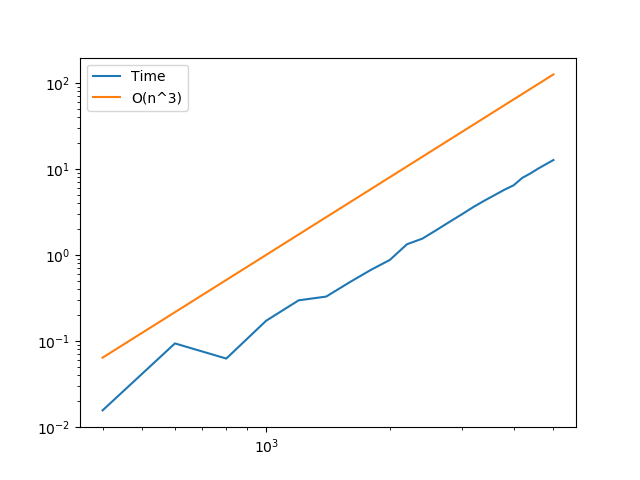
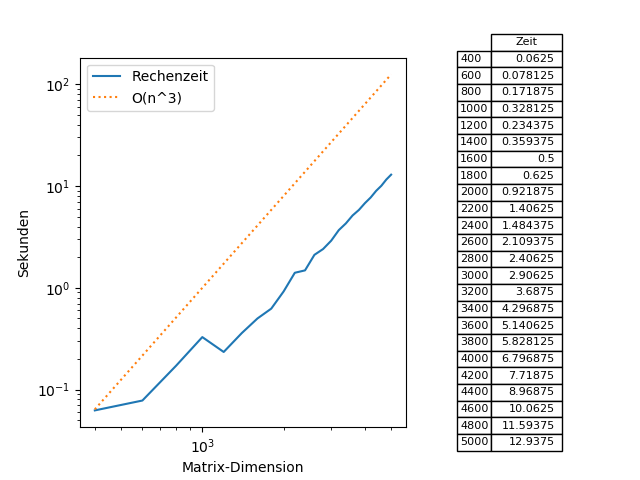
Signifikante Fortschritte

diff --git a/WS_2019-20/Numerik_UE/Projekt_2/Aufgabe_1/Aufgabe_1.tex b/WS_2019-20/Numerik_UE/Projekt_2/Aufgabe_1/Aufgabe_1.tex
@@ -27,8 +27,8 @@ A_base = zufallsmatrix(5000,100)
 \end{figure}
 Wie in Abbildung 1 ersichtlich verhält sich die Rechenzeit kubisch in Relation zur Problemgröße.
 Zum Testen wurde eine Zufallsmatrix mit 100 Nicht-Null-Einträgen pro Zeile (nicht exakt, da die Symmetriesierung den Wert pro
-Zeile verzerrt) und einer Gesamtgröße von 500 erstellt. Der direkte Löser wurde schließlich auf die $(k200 \times k200)$-dimensionalen,
-rechts oberen Untermatrizen angewandt ($2 \leq k \leq 25$).
+Zeile verzerrt) und einer Gesamtgröße von 5000 erstellt. Der direkte Löser wurde schließlich auf die $(200k \times 200k)$-dimensionalen Ausschnitte der oberen rechten Ecke angewandt ($2 \leq k \leq 25$). Wie man sieht erreichen wir damit schon langsam die Grenze
+des akzeptabel Berechenbaren, für die volle $5000\times5000$-Matrix braucht der Algorithmus schon über 10 Sekunden.
 \FloatBarrier
 \subsection*{b)}
 Implementierung des CG-Verfahrens:
@@ -95,8 +95,47 @@ Jetzt nutzen wir die Eigenschaft: $\forall 0 \leq j < m: r_m^Td_j = 0$ und erhal
   = \frac{r_{n+1}{*T}r_{n+1}^*}{r_n^{*T}r_n^*} = \beta_n^* \\
   d_{n+1} = r_{n+1} + \beta_nd_n = r_{n+1}^* + \beta_n^*d_n^* = d_{n+1}^*
 \end{align*}
-Und der Beweis ist vollständig.
+Und der Beweis ist vollständig. \\
 
+Rechenschritte pro Schleifendurchlauf: \\
+Am aufwändigsten ist natürlich die Matrix-Vektor-Multiplikation, wovon wir in unserem Algorithmus
+im Gegensatz zu jenem aus dem Skript nur eine pro Schleifendurchlauf benötigen.
+Zusätzlich dazu brauchen wir 3 Vektor-Vektor-Multiplikationen und 4 Vektor-Skalar-Operationen. \\
+Damit erhalten wir insgesamt $n^2+7n$ Flops pro Durchlauf. \\
+Im Vergleich dazu verwendet der Algorithmus aus dem Numerik-Skript pro Iteration zwei Matrix-Vektor-Multiplikationen
+und ist daher aus Effizienzgründen unterlegen. \\
+
+Die Theorie besagt, dass das CG-Verfahren spätentens nach $n$ Durchläufen die exakte Lösung liefert und für die Iterierten
+folgende Fehlerabschätzung gilt:
+\begin{align*}
+  \Vbraces{x^{(t)}-A^{-1}b}_A \leq 2\left(\frac{1-1/\sqrt{\kappa}}{1+1/\sqrt{\kappa}}\right)^t\Vbraces{x^{(0)}-A^{-1}b}_A, \quad t \in \N,
+\end{align*}
+mit der spektralen Konditionszahl $\kappa = \text{cond}_2(A)$. \\
+Also sollte das Verfahren exponentiell kovergieren ($\Landau{AB^t}$) mit Konstanten\\
+$A = 2\Vbraces{x^{(0)}-A^{-1}b}_A, \quad B = \frac{1-1/\sqrt{\kappa}}{1+1/\sqrt{\kappa}}$\\
+Wie in untenstehender Grafik ersichtlich scheint bei unseren Zufallsmatrizen der Wert von $B$ sich in etwa bei $0.92$ einzupendeln
+und unsere vorgegebene Toleranz von $10^{-8}$ wird bereits nach etwa $350$ Iterationen erreicht, noch weit vor dem theoretisch
+(bis auf Rechenfehler) gariantierten exakten Resultat nach $n = 5000$ Durchläufen.
+Ansonsten verhält sich der Fehler wie wir ihn erwarten würden. \\
+Unsere Testwerte: \\
+
+\begin{lstlisting}[language=Python]
+n = 5000
+A = np.random.rand(n,n)
+A = np.dot(A,np.transpose(A))
+A += 10*np.diag(abs(np.random.random(n)))
+b = np.random.rand(n)
+tol = 10**(-8)
+x0 = np.random.rand(n)*10
+\end{lstlisting}
+
+\begin{figure}
+    \centering
+    \includegraphics[width=\linewidth]{Aufgabe_1/plot_b.png}
+    \caption{Residuum abhängig von der Anzahl an Iterationen}
+    \label{fig:my_label}
+\end{figure}
+\FloatBarrier
 \subsection*{c)}
 Dünn besetzte Matrizen erlauben effizientere Implementierungen als voll besetzte, indem beim Speichern und Rechnen
 nur Einträge die ungleich Null sind berücksichtigt werden. Eine Möglichkeit einer solchen Implementierung ist das sogenannte

diff --git a/WS_2019-20/Numerik_UE/Projekt_2/Aufgabe_1/zufallsmatrix.py b/WS_2019-20/Numerik_UE/Projekt_2/Aufgabe_1/zufallsmatrix.py
@@ -17,8 +17,11 @@ def zufallsmatrix(n, nonzeros):
 	return A + A.T + np.diag(np.random.rand(n)*10)
 
 
-A_base = zufallsmatrix(5000,100)
-x = [i for i in range(400,5001,200)]
+ax1 = plt.subplot2grid((1,6),(0,0),colspan = 4)
+ax2 = plt.subplot2grid((1,6),(0,4))
+n = 5000
+A_base = zufallsmatrix(n,100)
+x = [i for i in range(400,n+1,200)]
 y = []
 for n in x:
 	A = A_base[:n,:n]
@@ -27,9 +30,11 @@ for n in x:
 	z = np.linalg.solve(A,b)
 	end = time.process_time()
 	y.append(end-start)
-plt.loglog(x,y, label = "Solving Time")
-plt.loglog(x, (np.array(x)/1000)**3, label = "O(n^3)")
-plt.legend()
-plt.ylabel("Time in seconds")
-plt.xlabel("Matrix size")
+ax1.loglog(x,y, label = "Rechenzeit")
+ax1.loglog(x, (np.array(x)/1000)**3, label = "O(n^3)", linestyle = "dotted")
+ax1.legend()
+ax1.set_ylabel("Sekunden")
+ax1.set_xlabel("Matrix-Dimension")
+ax2.axis("Off")
+tab = ax2.table(cellText=[[i] for i in y], rowLabels=x, colLabels=["Zeit"], loc = "right")
 plt.show()

diff --git a/WS_2019-20/Numerik_UE/Projekt_2/Aufgabe_1/b.py b/WS_2019-20/Numerik_UE/Projekt_2/Aufgabe_1/b.py
@@ -8,6 +8,7 @@ def cg(A,b,x0,tol):
     r0 = b - np.dot(A,xt)
     d = r0
     count = 0
+    res = []
     while(np.linalg.norm(r0) > tol):
         prod = np.dot(np.transpose(r0),r0)
         prod2 = np.dot(A,d)
@@ -16,9 +17,9 @@ def cg(A,b,x0,tol):
         r0 = r0 - alpha*prod2
         beta = np.dot(np.transpose(r0),r0)/prod
         d = r0 + beta*d
+        res.append(np.linalg.norm(r0))
         count += 1
-    print(count)
-    return xt
+    return xt, np.array(res), count
 
 n = 5000
 A = np.random.rand(n,n)
@@ -30,7 +31,13 @@ x0 = np.random.rand(n)*10
 
 xsolve = np.linalg.solve(A,b)
 
-xcg = cg(A,b,x0,tol)
-
+xcg, res, count = cg(A,b,x0,tol)
+x = [i+1 for i in range(len(res))]
 q = b-A@xcg
 print(np.linalg.norm(q))
+y = [0.92**i for i in x]
+plt.semilogy(x, res, label = "Residuum")
+plt.semilogy(x, y, linestyle = "dotted", label = "0.92^t")
+plt.xlabel("Iterationen")
+plt.legend()
+plt.show()

diff --git a/WS_2019-20/Numerik_UE/Projekt_2/main.tex b/WS_2019-20/Numerik_UE/Projekt_2/main.tex
@@ -42,13 +42,13 @@
 Random code snippet, damit alle checken, wie man code displayt:
 \lstinputlisting[language = Python]{hello_world.py}
 
-% \section{Dünn besetzte Matrizen}
-% \input{Aufgabe_1/Aufgabe_1.tex}
-% \FloatBarrier
+\section{Dünn besetzte Matrizen}
+\input{Aufgabe_1/Aufgabe_1.tex}
+\FloatBarrier
 \section{Eigenschwingungen}
 \input{Aufgabe_2/Aufgabe_2.tex}
-% \FloatBarrier
-% \section{Titel}
-% \input{Aufgabe_3/Aufgabe_3.tex}
+\FloatBarrier
+\section{Titel}
+\input{Aufgabe_3/Aufgabe_3.tex}
 
 \end{document}
